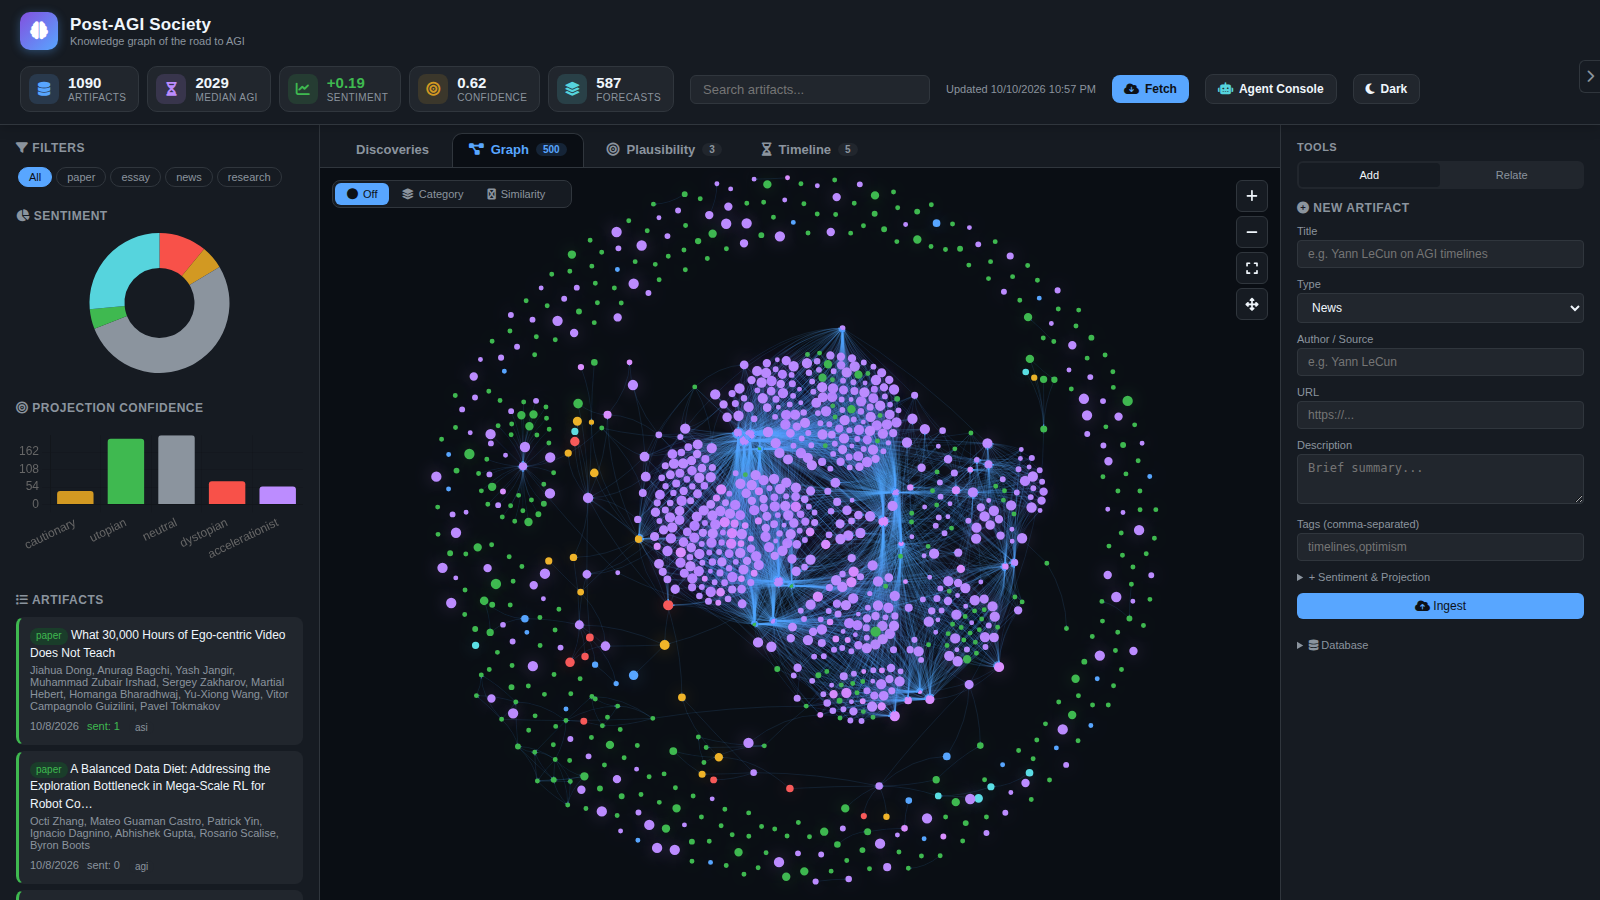
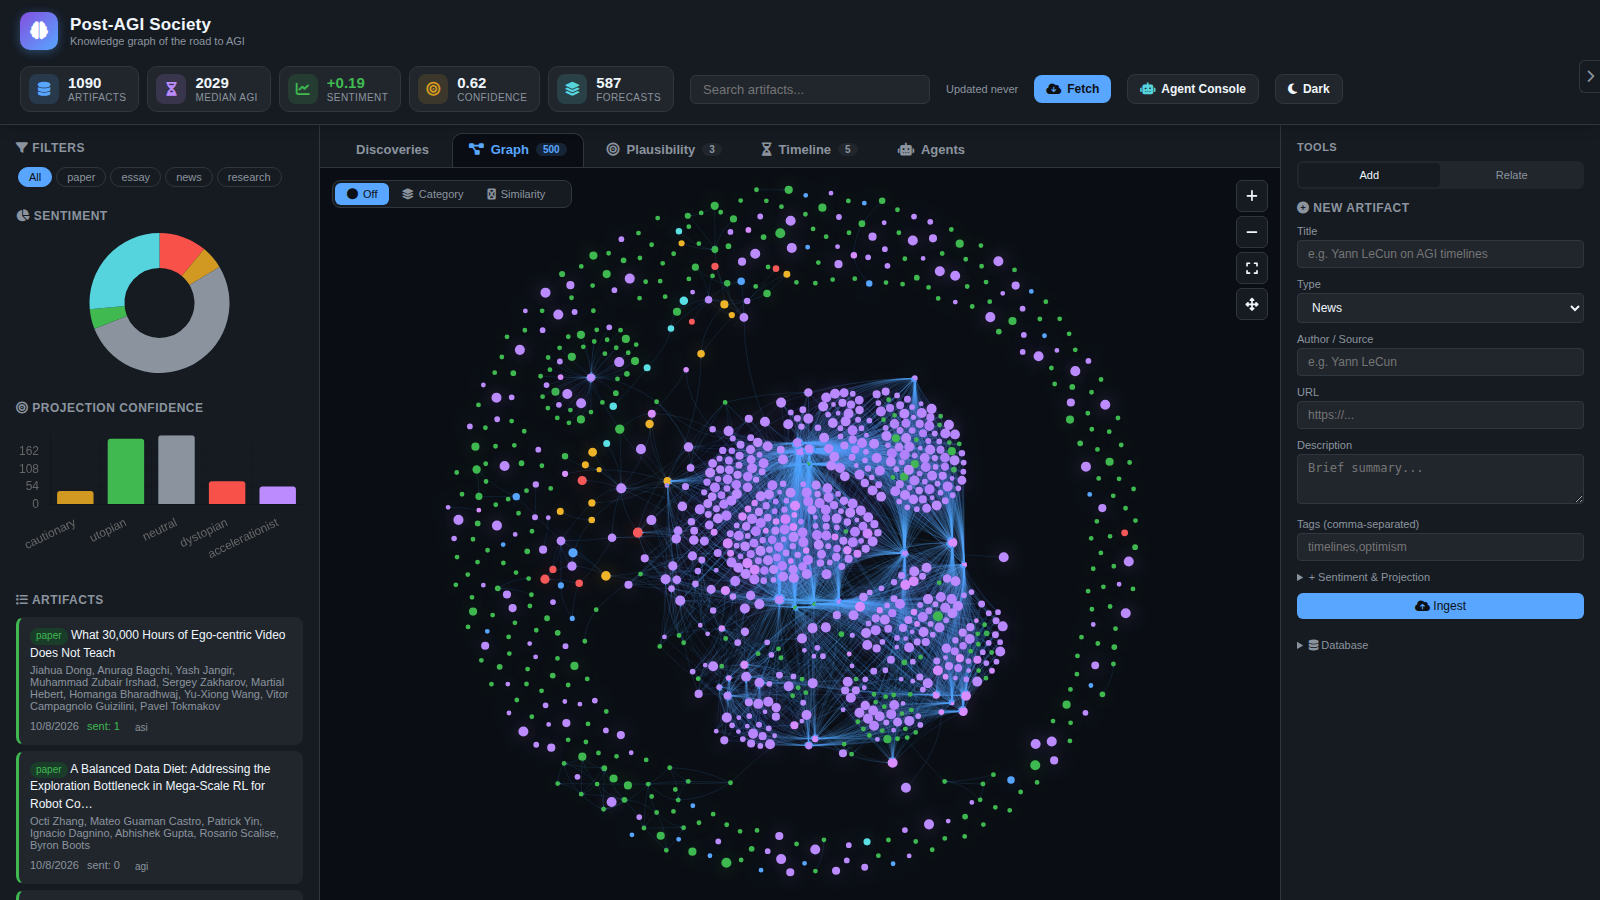
README: system-design UML (component, ER, A2A sequences, activities) + fresh screenshots incl. Agents console

diff --git a/README.md b/README.md
@@ -12,6 +12,12 @@ A knowledge graph dashboard that curates, analyzes, and visualizes the intellect
 | *Attention queue, newest arrivals, and most-linked findings — ranked live on every load.* | *Zoomable, filterable graph of the full AGI discourse, colored by artifact type.* |
 
 | Plausibility | Timeline — road to AGI |
+
+
+| Agent Console (8 agents, OpenShell-aware protection) |
+|---|
+| ![Agent Console — registry, invoke console, protection banner](docs/screenshots/05-agents.png) |
+| *Registry grid, invoke console with envelope traces, protection banner, and tool-use audit — this app's own agents.* |
 |---|---|
 | ![Plausibility tab — animated projection scoring](docs/screenshots/03-plausibility.png) | ![Timeline tab — median AGI year, milestone road, bridge gaps](docs/screenshots/04-timeline.png) |
 | *Animated plausibility rings per projection type, with confidence, sentiment, and evidence.* | *Median forecast year, horizon bands, capability signals, and the 5 open gaps to safe AGI.* |
@@ -76,6 +82,184 @@ A knowledge graph dashboard that curates, analyzes, and visualizes the intellect
 - **Scraping**: feedparser (RSS), requests (Nitter tweets), arXiv API XML
 - **Scheduling**: APScheduler runs ingestion daily at 04:00 UTC
 - **Containerization**: Docker + docker-compose with named volume `ags_data` for persistence
+
+---
+
+## System design (UML)
+
+All diagrams below are Mermaid source — rendered natively by GitHub/GitLab.
+
+### Component diagram — runtime architecture
+
+```mermaid
+flowchart TB
+    Browser["Browser SPA<br/>static/index.html"]
+    API["FastAPI app/main.py<br/>artifacts · graph · stats · plausibility<br/>timeline · discoveries · ingest · security · agents"]
+    A2A["A2A protocol bus<br/>app/agents.py"]
+    Guard["Protection layer<br/>app/sandbox.py"]
+    MainDB[("SQLite ags.db<br/>artifacts · sentiments<br/>projections · relationships<br/>security_assessments")]
+    LedgerDB[("SQLite ledger.db<br/>hash-chained audit")]
+    Sched["APScheduler<br/>daily 04:00 UTC"]
+    Sources["RSS · Nitter · arXiv"]
+
+    Browser <--> API
+    API <--> A2A
+    A2A --> Guard
+    API <--> MainDB
+    Guard --> LedgerDB
+    Guard --> MainDB
+    Sched --> API
+    Sources --> API
+```
+
+`app/security.py` (assessment engine), `app/security_analytics.py` (coverage,
+what-if, Monte Carlo, kill-chains) and `app/ledger.py` (tamper-evident log)
+plug into the API layer; every agent hop crosses the protection layer.
+
+### Class diagram — data model
+
+```mermaid
+erDiagram
+    ARTIFACTS ||--o{ SENTIMENTS : has
+    ARTIFACTS ||--o{ PROJECTIONS : forecasts
+    ARTIFACTS ||--o{ RELATIONSHIPS : "source of"
+    ARTIFACTS ||--o{ RELATIONSHIPS : "target of"
+    ARTIFACTS {
+        int id PK
+        string title
+        string artifact_type
+        string url
+        text description
+        text content
+        string author
+        datetime date_published
+        string tags
+    }
+    SENTIMENTS {
+        int id PK
+        int artifact_id FK
+        float score
+        string label
+        string source
+    }
+    PROJECTIONS {
+        int id PK
+        int artifact_id FK
+        string projection_type
+        float confidence
+        string timeframe
+        text summary
+    }
+    RELATIONSHIPS {
+        int id PK
+        int source_id FK
+        int target_id FK
+        string relationship_type
+    }
+    SECURITY_ASSESSMENTS {
+        int id PK
+        string product_name
+        float overall_pct
+        text threats_json
+        text evidence_json
+        text a2a_trace_json
+        int version
+        string status
+    }
+    LEDGER {
+        int seq PK
+        string actor
+        string action
+        string verdict
+        string prev_hash
+        string entry_hash
+    }
+```
+
+### Interaction — security assessment (A2A sequence)
+
+```mermaid
+sequenceDiagram
+    participant U as User
+    participant API as FastAPI
+    participant O as security-orchestrator
+    participant C as research-collector
+    participant T as threat-intel
+    participant W as report-writer
+    participant G as Protection layer
+    U->>API: POST /api/security/assess
+    API->>O: plan_assessment
+    O->>C: collect_research
+    C->>G: guarded graph search
+    G-->>C: ranked evidence
+    C-->>O: research_collected
+    O->>T: map_attacks
+    T-->>O: attacks_mapped
+    O->>W: write_section
+    W-->>O: section_written
+    O-->>API: report + trace
+    API->>G: audit invoke + fetch
+    API-->>U: assessment + diagrams + PDFs
+```
+
+### Interaction — agentic prediction (A2A sequence)
+
+```mermaid
+sequenceDiagram
+    participant U as User
+    participant API as FastAPI
+    participant O as forecast-orchestrator
+    participant S as evidence-scout
+    participant F as forecaster
+    participant R as critic
+    U->>API: GET /api/plausibility/agentic
+    API->>O: plan_prediction
+    O->>S: gather_forecasts
+    S-->>O: weighted pools
+    O->>F: synthesize
+    F-->>O: penalized scores + rationale
+    O->>R: review
+    R-->>O: reliability + caveats
+    O-->>API: types + overall + trace
+    API-->>U: cards + deliberation panel
+```
+
+### Activity — ingestion pipeline
+
+```mermaid
+flowchart TD
+    Start([Fetch trigger or 04:00 cron]) --> RSS[Fetch RSS + Nitter + arXiv]
+    RSS --> Dedup{URL seen?}
+    Dedup -- yes --> Skip([skip])
+    Dedup -- no --> Rel{Relevant keywords?}
+    Rel -- no --> Skip
+    Rel -- yes --> Score[Sentiment + tags + projection]
+    Score --> Testimony{Whistleblower content?}
+    Testimony -- yes --> Mark[Type = testimony + ethics tags]
+    Testimony -- no --> Keep[Feed type]
+    Mark --> Save[Persist artifact + sentiment + projection]
+    Keep --> Save
+    Save --> Relate[Auto-relate, max 8 edges]
+    Relate --> Done([commit])
+```
+
+### Activity — guarded agent tool use
+
+```mermaid
+flowchart TD
+    Call([Agent tool call]) --> AuditIn[Audit attempt]
+    AuditIn --> Scheme{http or https?}
+    Scheme -- no --> Blocked([blocked + audited])
+    Scheme -- yes --> Creds{Credentials in URL?}
+    Creds -- yes --> Blocked
+    Creds -- no --> DNS[Resolve host]
+    DNS --> Routable{All IPs global?}
+    Routable -- no --> Blocked
+    Routable -- yes --> Fetch[Stream fetch, 2MB cap, 8s timeout]
+    Fetch --> Scrub[Redact secrets]
+    Scrub --> AuditOk[Audit allowed]
+    AuditOk --> Return([excerpt + title])
+```
 
 ---
 
